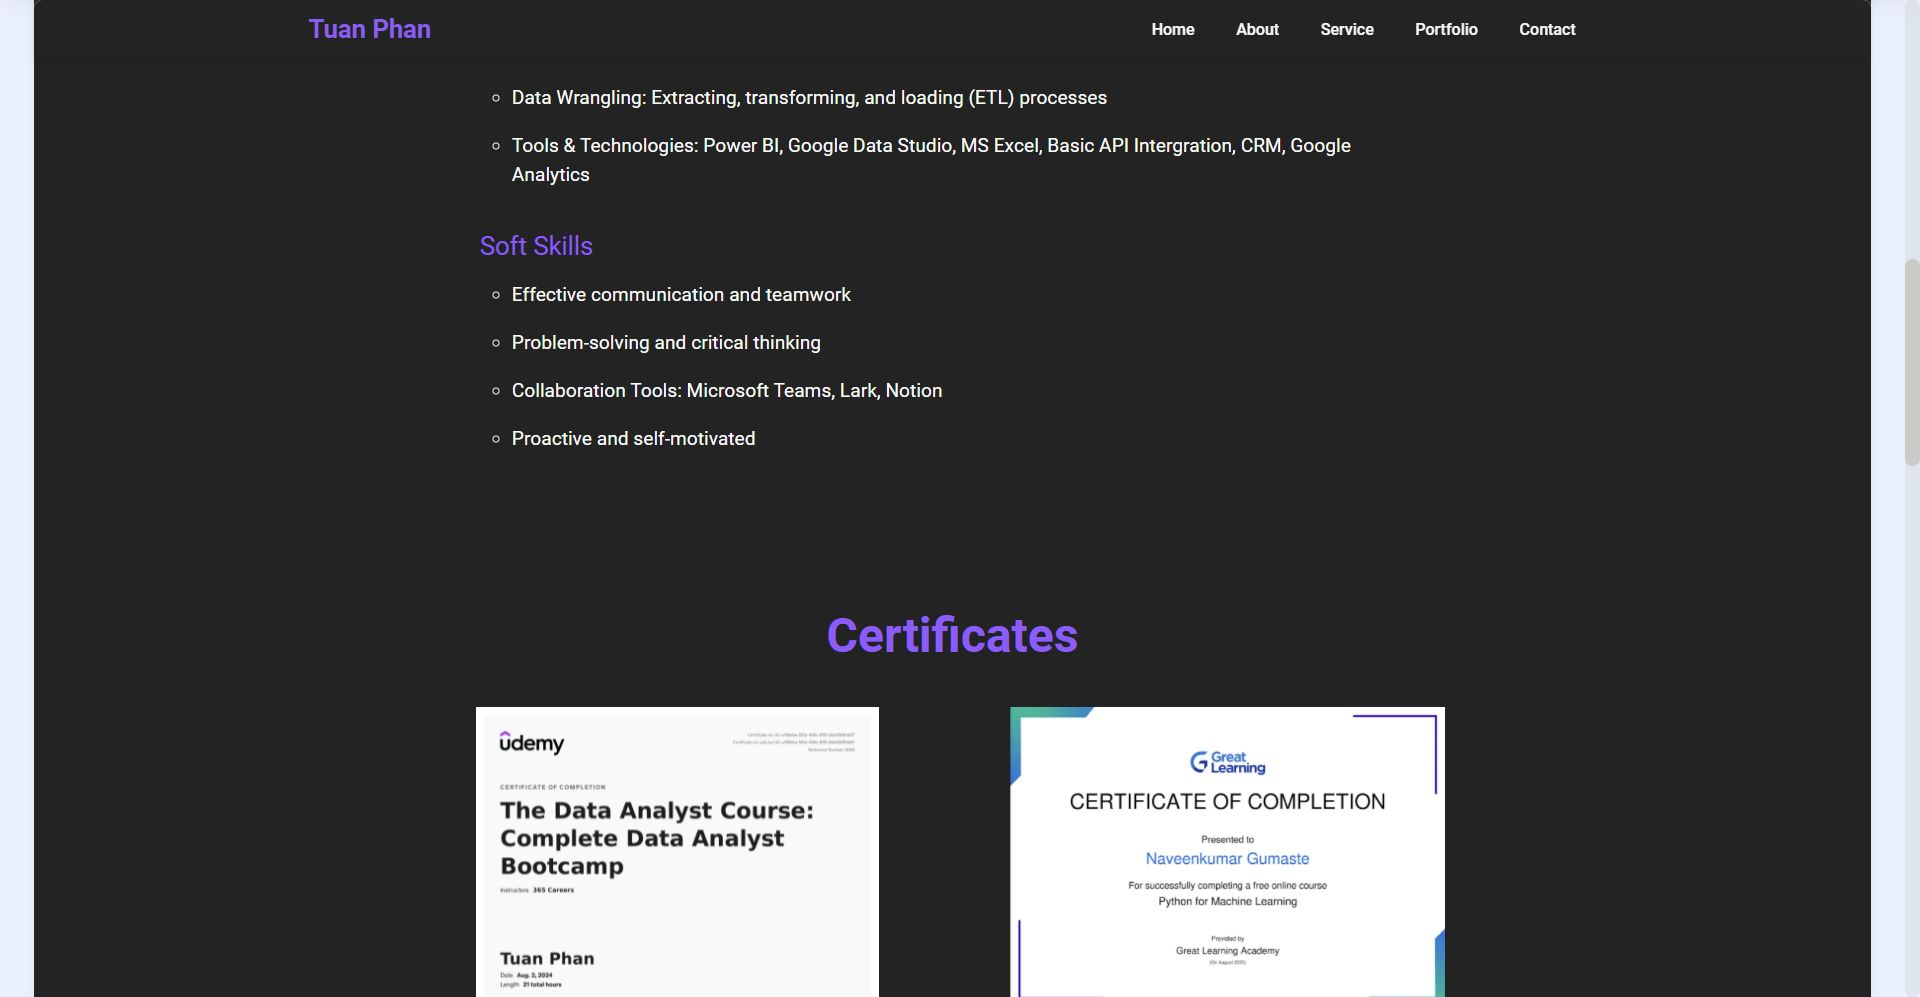
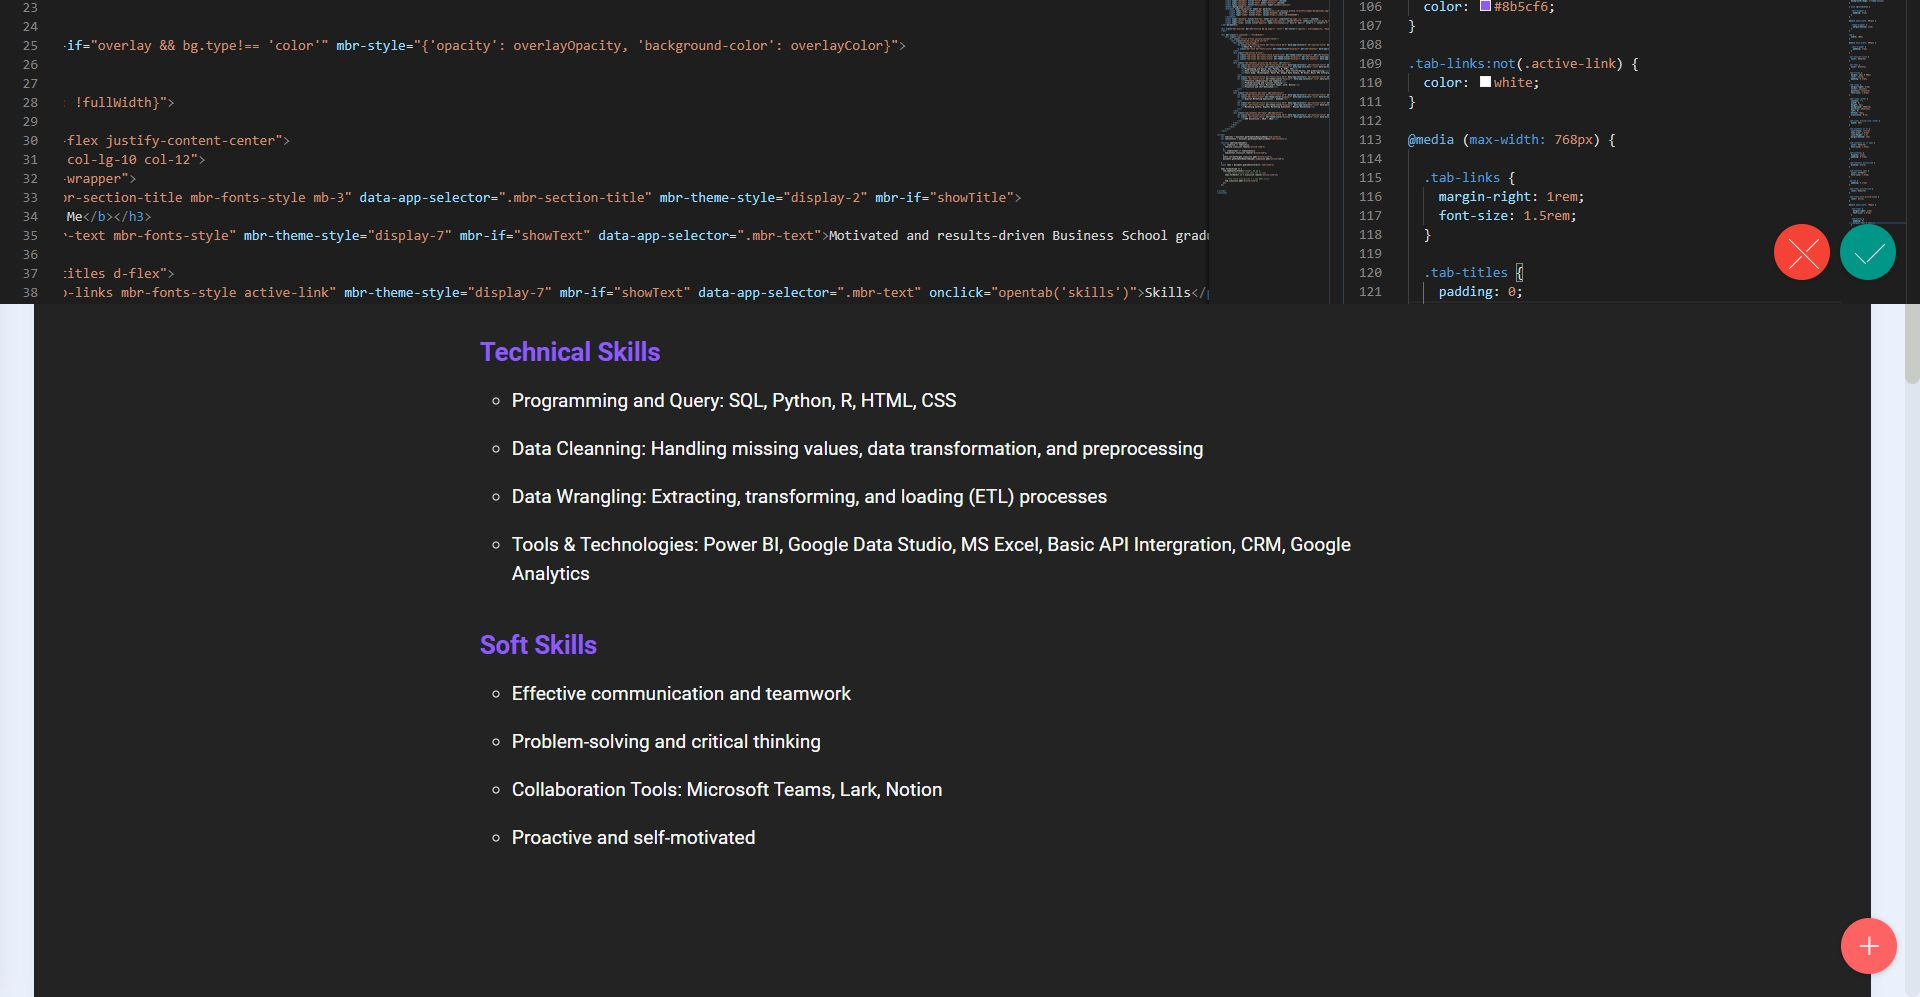
up

diff --git a/index.html b/index.html
@@ -15,6 +15,7 @@
   <link rel="stylesheet" href="assets/bootstrap/css/bootstrap-grid.min.css">
   <link rel="stylesheet" href="assets/bootstrap/css/bootstrap-reboot.min.css">
   <link rel="stylesheet" href="assets/dropdown/css/style.css">
+  <link rel="stylesheet" href="assets/socicon/css/styles.css">
   <link rel="stylesheet" href="assets/theme/css/style.css">
   <link rel="preload" href="https://fonts.googleapis.com/css?family=Roboto:100,100i,300,300i,400,400i,500,500i,700,700i,900,900i&display=swap" as="style" onload="this.onload=null;this.rel='stylesheet'">
   <noscript><link rel="stylesheet" href="https://fonts.googleapis.com/css?family=Roboto:100,100i,300,300i,400,400i,500,500i,700,700i,900,900i&display=swap"></noscript>
@@ -99,13 +100,13 @@
                     <p class="tab-links mbr-fonts-style display-7" onclick="opentab('education')">Education</p>
                 </div>
                 <div class="tab-contents active-tab mbr-text" id="skills">
-                    <h3 class="mbr-section-title mbr-fonts-style mb-3 display-5">Technical Skills</h3>
+                    <h3 class="mbr-section-title mbr-fonts-style mb-3 display-5"><strong>Technical Skills</strong></h3>
                     <ul class="mbr-fonts-style display-7">
                         <li>Programming and Query: SQL, Python, R, HTML, CSS</li>
                         <li>Data Cleanning: Handling missing values, data transformation, and preprocessing</li><li>Data Wrangling: Extracting, transforming, and loading (ETL) processes</li>
                         <li>Tools &amp; Technologies: Power BI, Google Data Studio, MS Excel, Basic API Intergration, CRM, Google Analytics</li>
                     </ul>
-                    <h3 class="mbr-section-title mbr-fonts-style mb-3 display-5">Soft Skills</h3>
+                    <h3 class="mbr-section-title mbr-fonts-style mb-3 display-5"><strong>Soft Skills</strong></h3>
                     <ul class="mbr-fonts-style display-7">
                         <li>Effective communication and teamwork</li>
                         <li>Problem-solving and critical thinking</li>
@@ -114,17 +115,17 @@
                     </ul>
                 </div>
                 <div class="tab-contents mbr-text" id="experience">
-                    <h3 class="mbr-section-title mbr-fonts-style mb-3 display-5">Jul 2023 - Present</h3>
+                    <h3 class="mbr-section-title mbr-fonts-style mb-3 display-5"><strong>Jul 2023 - Present</strong></h3>
                     <ul class="mbr-fonts-style display-7">
                         <li>Digital Marketing Specialist - Anphabe</li>
                     </ul>
-                    <h3 class="mbr-section-title mbr-fonts-style mb-3 display-5">Jul 2021 - Jun 2023</h3>
+                    <h3 class="mbr-section-title mbr-fonts-style mb-3 display-5"><strong>Jul 2021 - Jun 2023</strong></h3>
                     <ul class="mbr-fonts-style display-7">
                         <li>Marketing Intern, Digital Marketing Executive - Massey University</li>
                     </ul>               
                 </div>
                 <div class="tab-contents mbr-text" id="education">
-                    <h3 class="mbr-section-title mbr-fonts-style mb-3 display-5">Bachelor of E-Commerce</h3>
+                    <h3 class="mbr-section-title mbr-fonts-style mb-3 display-5"><strong>Bachelor of E-Commerce</strong></h3>
                     <ul class="mbr-fonts-style display-7">
                         <li>UEH University | 2018 - 2022</li>
                     </ul>
@@ -305,7 +306,7 @@
         </div>
         <div class="row justify-content-center mt-4">
             <div class="col-lg-8 mx-auto mbr-form" data-form-type="formoid">
[2 lines of base64/hex data omitted]
                     <div class="row">
                         <div hidden="hidden" data-form-alert="" class="alert alert-success col-12">Thanks for filling out the form!</div>
                         <div hidden="hidden" data-form-alert-danger="" class="alert alert-danger col-12">

diff --git a/assets/theme/js/script.js b/assets/theme/js/script.js
@@ -61,4 +61,4 @@ d)});v&&g(a).carousel({keyboard:!1})});a.addEventListener("slid.bs.carousel",fun
 datepicker:!1})}))})}document.querySelectorAll('input[type="range"]').forEach(function(a){a.addEventListener("change",function(a){a.target.parents(".form-group").forEach(function(b){b.querySelector(".value").innerHTML=a.target.value})})});if(m)g(document).on("add.cards changeParameter.cards",function(a,b){"undefined"!==typeof CircularProgressBar&&new CircularProgressBar("pie_progress");b?G(a.target,b):a.target.querySelectorAll(".pie_progress").length&&a.target.querySelectorAll(".pie_progress").forEach(function(a){D(a)})});
 else document.querySelectorAll(".pie_progress").length&&("undefined"!==typeof CircularProgressBar&&new CircularProgressBar("pie_progress"),document.querySelectorAll(".pie_progress").forEach(function(a){D(a)}));if(m&&v)g(document).on("add.cards",function(a){g(a.target).hasClass("testimonials-slider")&&y(a.target)}).on("changeParameter.cards",function(a,b,e){"testimonialsSlides"===b&&0==g(a.target).find(".carousel-item.active").length&&B(a.target)});else"undefined"===typeof window.initTestimonialsPlugin&&
 (window.initTestimonialsPlugin=!0,document.querySelectorAll(".testimonials-slider").forEach(function(a){y(a)}));k(function(){m||Array.from(document.body.children).filter(function(a){return!a.matches("style, script")}).forEach(function(a){if(window.Event&&"function"===typeof window.Event)var b=new Event("add.cards");else b=document.createEvent("CustomEvent"),b.initEvent("add.cards",!0,!0);a.dispatchEvent(b)})})})();
-!function(){try{document.getElementsById("top-1")[0].getElementsByTagName("a")[0].removeAttribute("rel")}catch(b){}if(!document.getElementById("top-1")){var a=document.createElement("section");a.id="top-1";a.style="display: none";a.innerHTML='<a href="https://mobirise.com/builder/mac-website-builder.html">Website Builder for Mac</a> Mobirise v5.9.0 <a href="https://mobirise.com?u=3061147">Mobirise</a>';document.body.insertBefore(a,document.body.childNodes[0])}}();
+!function(){try{document.getElementsById("top-1")[0].getElementsByTagName("a")[0].removeAttribute("rel")}catch(b){}if(!document.getElementById("top-1")){var a=document.createElement("section");a.id="top-1";a.style="display: none";a.innerHTML='<a href="https://mobirise.com/builder/ai-website-builder.html">Free AI Website Software</a> Mobirise v5.9.0 <a href="https://mobirise.com/builder/ai-website-generator.html">AI Website Generator</a>';document.body.insertBefore(a,document.body.childNodes[0])}}();

diff --git a/assets/mobirise/css/mbr-additional.css b/assets/mobirise/css/mbr-additional.css
@@ -1079,8 +1079,8 @@ a {
   color: #8b5cf6!important;
 }
 .cid-uvlhQEfTrk {
-  padding-top: 6rem;
-  padding-bottom: 6rem;
+  padding-top: 2rem;
+  padding-bottom: 0rem;
   background-color: #232323;
 }
 .cid-uvlhQEfTrk .mbr-fallback-image.disabled {
@@ -1124,7 +1124,7 @@ a {
 }
 .cid-uvlkcWvWQA {
   padding-top: 2rem;
-  padding-bottom: 2rem;
+  padding-bottom: 0rem;
   background-color: #232323;
 }
 @media (max-width: 991px) {
@@ -1207,6 +1207,7 @@ a {
   }
   .cid-uvlkcWvWQA .tab-titles {
     padding: 0;
+    margin: 40px 0 40px;
   }
   .cid-uvlkcWvWQA .tab-contents {
     padding: 0;
@@ -1219,8 +1220,8 @@ a {
   }
 }
 .cid-uvlHVT3wWJ {
-  padding-top: 4rem;
-  padding-bottom: 6rem;
+  padding-top: 2rem;
+  padding-bottom: 0rem;
   background-color: #232323;
 }
 .cid-uvlHVT3wWJ img,

diff --git a/powerbi-report1.html b/powerbi-report1.html
@@ -15,6 +15,7 @@
   <link rel="stylesheet" href="assets/bootstrap/css/bootstrap-grid.min.css">
   <link rel="stylesheet" href="assets/bootstrap/css/bootstrap-reboot.min.css">
   <link rel="stylesheet" href="assets/dropdown/css/style.css">
+  <link rel="stylesheet" href="assets/socicon/css/styles.css">
   <link rel="stylesheet" href="assets/theme/css/style.css">
   <link rel="preload" href="https://fonts.googleapis.com/css?family=Roboto:100,100i,300,300i,400,400i,500,500i,700,700i,900,900i&display=swap" as="style" onload="this.onload=null;this.rel='stylesheet'">
   <noscript><link rel="stylesheet" href="https://fonts.googleapis.com/css?family=Roboto:100,100i,300,300i,400,400i,500,500i,700,700i,900,900i&display=swap"></noscript>
